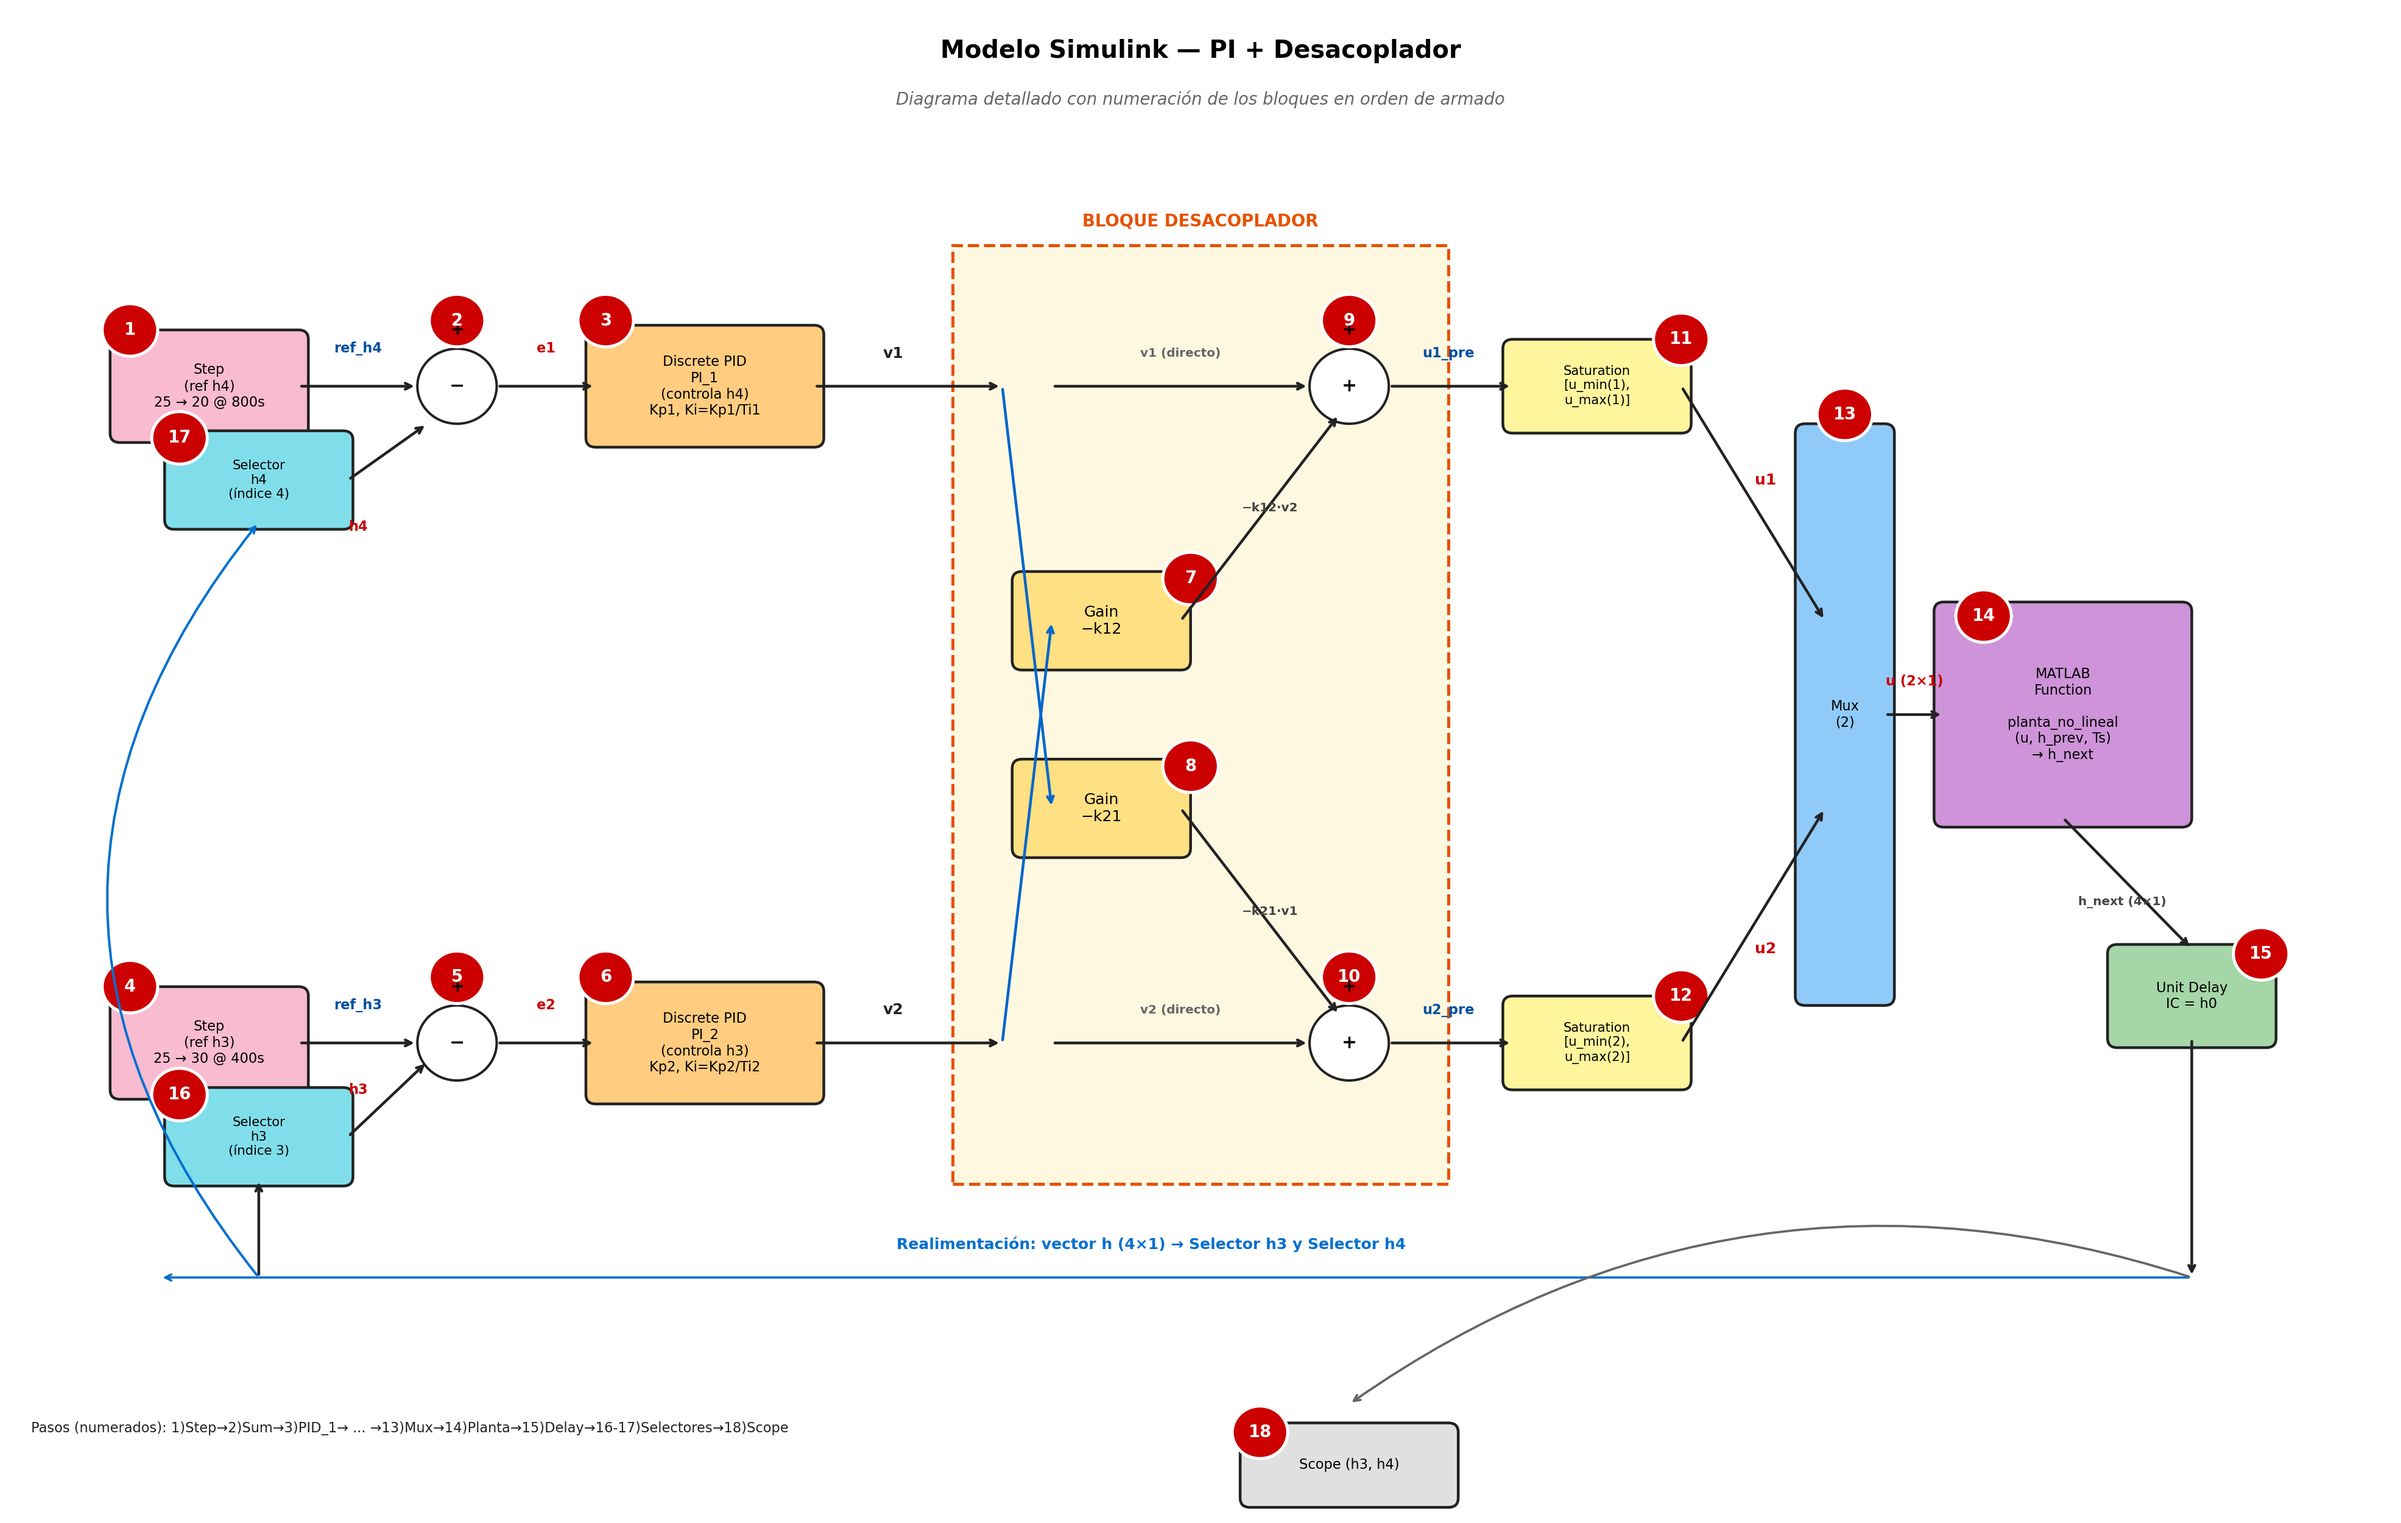
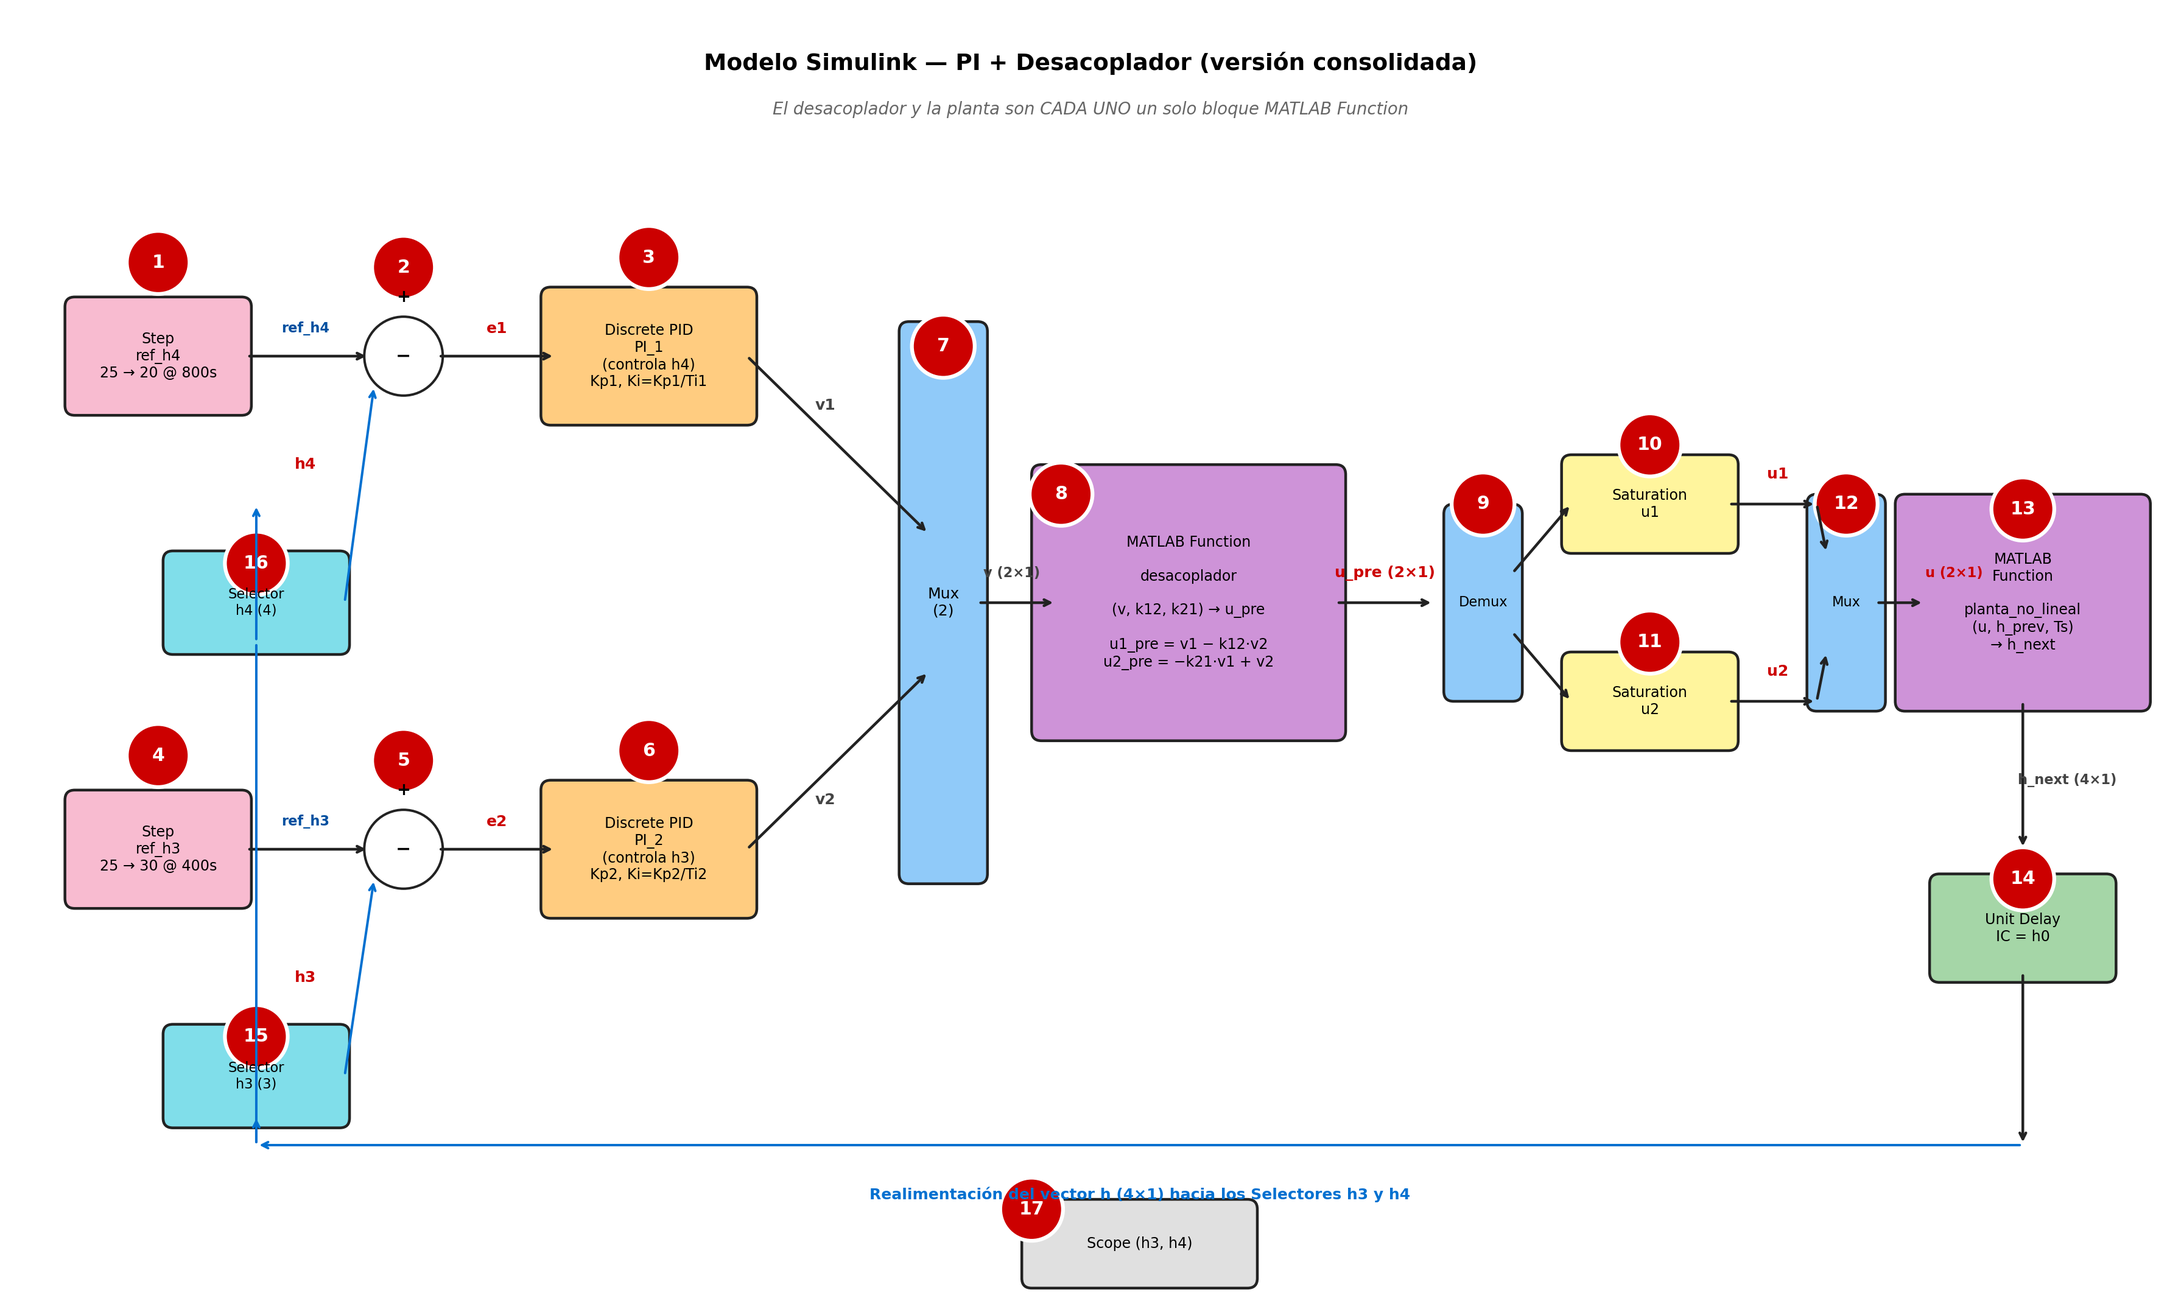
Consolidar el desacoplador en un solo bloque MATLAB Function
Antes el desacoplador estaba representado con 4 bloques separados
(2 Gain + 2 Sum). Ahora es UN solo bloque MATLAB Function llamado
'desacoplador' que recibe el vector v=[v1;v2] y devuelve u_pre=[u1_pre;
u2_pre], lo cual:

- Es mas limpio visualmente
- Es coherente con el bloque GPC (que tambien es 1 MATLAB Function)
- Reduce de 17 bloques a menos bloques visibles

Codigo del nuevo bloque MATLAB Function 'desacoplador':
  function u_pre = desacoplador(v, k12, k21)
    u1_pre = v(1) - k12 * v(2);
    u2_pre = -k21 * v(1) + v(2);
    u_pre  = [u1_pre; u2_pre];
  end

k12 y k21 deben declararse como Parameter (no Input) en el bloque
para que tomen sus valores del workspace cargado por init_simulink.m.

diff --git a/GUIA_SIMULINK.md b/GUIA_SIMULINK.md
@@ -99,6 +99,8 @@ Abre tu modelo en Simulink y ve a **`Simulation → Model Configuration Paramete
 # PARTE A — Implementación del PI + Desacoplador
 
 > **Mira la imagen `simulink_PID_detallado.png` mientras lees esto.** Los números rojos en la imagen coinciden con los pasos abajo.
+>
+> **Esta versión consolida el desacoplador en UN solo bloque MATLAB Function** (en lugar de los 4 bloques Gain+Sum). Es más limpio visualmente y más coherente con el diseño del GPC.
 
 ### Paso 1 — Step `ref_h4`
 - Biblioteca: `Simulink → Sources → Step`
@@ -140,71 +142,62 @@ Análogo a 1, 2, 3 pero con:
 
 ---
 
-### 🟧 BLOQUE DESACOPLADOR (pasos 7, 8, 9, 10) 🟧
+### Paso 7 — Mux (combina v1 y v2 en un vector)
+- Biblioteca: `Simulink → Signal Routing → Mux`
+- Parámetro: Number of inputs: `2`
+- Entradas: `v1` (del PID 3), `v2` (del PID 6)
+- Salida: vector `v` (2×1) que entra al desacoplador
 
-Esto es el detalle que más cuesta entender. Los 4 bloques actúan así:
+### Paso 8 — 🟧 MATLAB Function `desacoplador` 🟧
+- Biblioteca: `Simulink → User-Defined Functions → MATLAB Function`
+- Doble clic. Pega este código:
 
+```matlab
+function u_pre = desacoplador(v, k12, k21)
+% Desacoplador estatico de Skogestad (simplificado).
+% Entradas:
+%   v   = vector 2x1 con las salidas de los dos PI [v1; v2]
+%   k12 = ganancia cruzada (calculada en init_simulink.m)
+%   k21 = ganancia cruzada (calculada en init_simulink.m)
+% Salida:
+%   u_pre = vector 2x1 con [u1_pre; u2_pre] antes de la saturacion
+
+u1_pre = v(1) - k12 * v(2);
+u2_pre = -k21 * v(1) + v(2);
+u_pre  = [u1_pre; u2_pre];
+end
 ```
-v1 ─────────────────────────► (+) ─────► u1_pre
-                               ▲
-                          (−k12·v2)
-                               │
-v2 ───────► Gain(−k12) ────────┘
 
-v1 ───────► Gain(−k21) ────────┐
-                               │
-                          (−k21·v1)
-                               ▼
-v2 ─────────────────────────► (+) ─────► u2_pre
-```
+**Configuración importante:**
+1. En el editor del MATLAB Function, ve a `Model Explorer` (o `Symbols Pane`)
+2. Selecciona `k12` y `k21` y cambia su **Scope** a **`Parameter`** (no Input). Así toma sus valores del workspace.
+3. Entrada del bloque: `v` (vector 2×1, viene del Mux 7)
+4. Salida del bloque: `u_pre` (vector 2×1)
 
-### Paso 7 — Gain `−k12`
-- Biblioteca: `Simulink → Math Operations → Gain`
-- Parámetro: Gain = `-k12`
-- Entrada: `v2` (sale del PID 6)
-- Salida: va al **Sum 9**
+### Paso 9 — Demux (separa u1_pre y u2_pre)
+- Biblioteca: `Simulink → Signal Routing → Demux`
+- Parámetro: Number of outputs: `2`
+- Entrada: `u_pre` (vector 2×1)
+- Salidas: `u1_pre` (escalar), `u2_pre` (escalar)
 
-### Paso 8 — Gain `−k21`
-- Mismo bloque
-- Parámetro: Gain = `-k21`
-- Entrada: `v1` (sale del PID 3)
-- Salida: va al **Sum 10**
-
-### Paso 9 — Sum (genera `u1_pre`)
-- Tipo: `Sum`, signos: `++`
-- Entradas:
-  - `v1` directo (desde PID 3)
-  - `−k12·v2` (salida del Gain 7)
-- Salida: `u1_pre`
-
-### Paso 10 — Sum (genera `u2_pre`)
-- Tipo: `Sum`, signos: `++`
-- Entradas:
-  - `v2` directo (desde PID 6)
-  - `−k21·v1` (salida del Gain 8)
-- Salida: `u2_pre`
-
----
-
-### Paso 11 — Saturation (límites de u1)
+### Paso 10 — Saturation (límites de u1)
 - Biblioteca: `Simulink → Discontinuities → Saturation`
 - Parámetros:
   - Upper limit: `u_max(1)`
   - Lower limit: `u_min(1)`
 - Entrada: `u1_pre`
-- Salida: `u1` (señal final que va a la bomba 1)
+- Salida: `u1`
 
-### Paso 12 — Saturation (límites de u2)
-- Análogo al 11 pero con `u_max(2)`, `u_min(2)`
+### Paso 11 — Saturation (límites de u2)
+- Análogo al 10 pero con `u_max(2)` y `u_min(2)`
 - Salida: `u2`
 
-### Paso 13 — Mux (combina u1 y u2 en vector)
-- Biblioteca: `Simulink → Signal Routing → Mux`
-- Parámetro: Number of inputs: `2`
+### Paso 12 — Mux (combina u1, u2 en vector u)
+- Number of inputs: `2`
 - Entradas: `u1`, `u2`
-- Salida: vector `u` de dimensión 2×1
+- Salida: vector `u` (2×1) que va a la planta
 
-### Paso 14 — MATLAB Function (planta no lineal)
+### Paso 13 — MATLAB Function (planta no lineal)
 - Biblioteca: `Simulink → User-Defined Functions → MATLAB Function`
 - Doble clic. Pega este código:
 
@@ -230,7 +223,7 @@ h_next=h;
 - Entradas: `u` (vector 2×1 del Mux), `h_prev` (vector 4×1 del Unit Delay), `Ts` (escalar)
 - Salida: `h_next` (vector 4×1)
 
-### Paso 15 — Unit Delay (memoria del estado)
+### Paso 14 — Unit Delay (memoria del estado)
 - Biblioteca: `Simulink → Discrete → Unit Delay`
 - Parámetros:
   - Initial condition: `h0` (vector 4×1)
@@ -238,20 +231,20 @@ h_next=h;
 - Entrada: `h_next` (de la planta)
 - Salida: `h_prev` (vuelve a la planta como entrada y se ramifica a los Selectores)
 
-### Pasos 16 y 17 — Selectores para extraer h₃ y h₄
+### Pasos 15 y 16 — Selectores para extraer h₃ y h₄
 - Biblioteca: `Simulink → Signal Routing → Selector`
-- Parámetros del Selector h₃ (paso 16):
+- Parámetros del Selector h₃ (paso 15):
   - Number of input dimensions: `1`
   - Index Option: `Index vector (dialog)`
   - Index: `3`
-- Parámetros del Selector h₄ (paso 17):
+- Parámetros del Selector h₄ (paso 16):
   - Index: `4`
 - Entradas: vector `h` del Unit Delay
 - Salidas: `h3` → al Sum 5 (entrada −) | `h4` → al Sum 2 (entrada −)
 
-### Paso 18 — Scope
+### Paso 17 — Scope
 - Biblioteca: `Simulink → Sinks → Scope`
-- Conecta: salidas de los Selectores 16 y 17
+- Conecta: salidas de los Selectores 15 y 16
 
 ---
 
